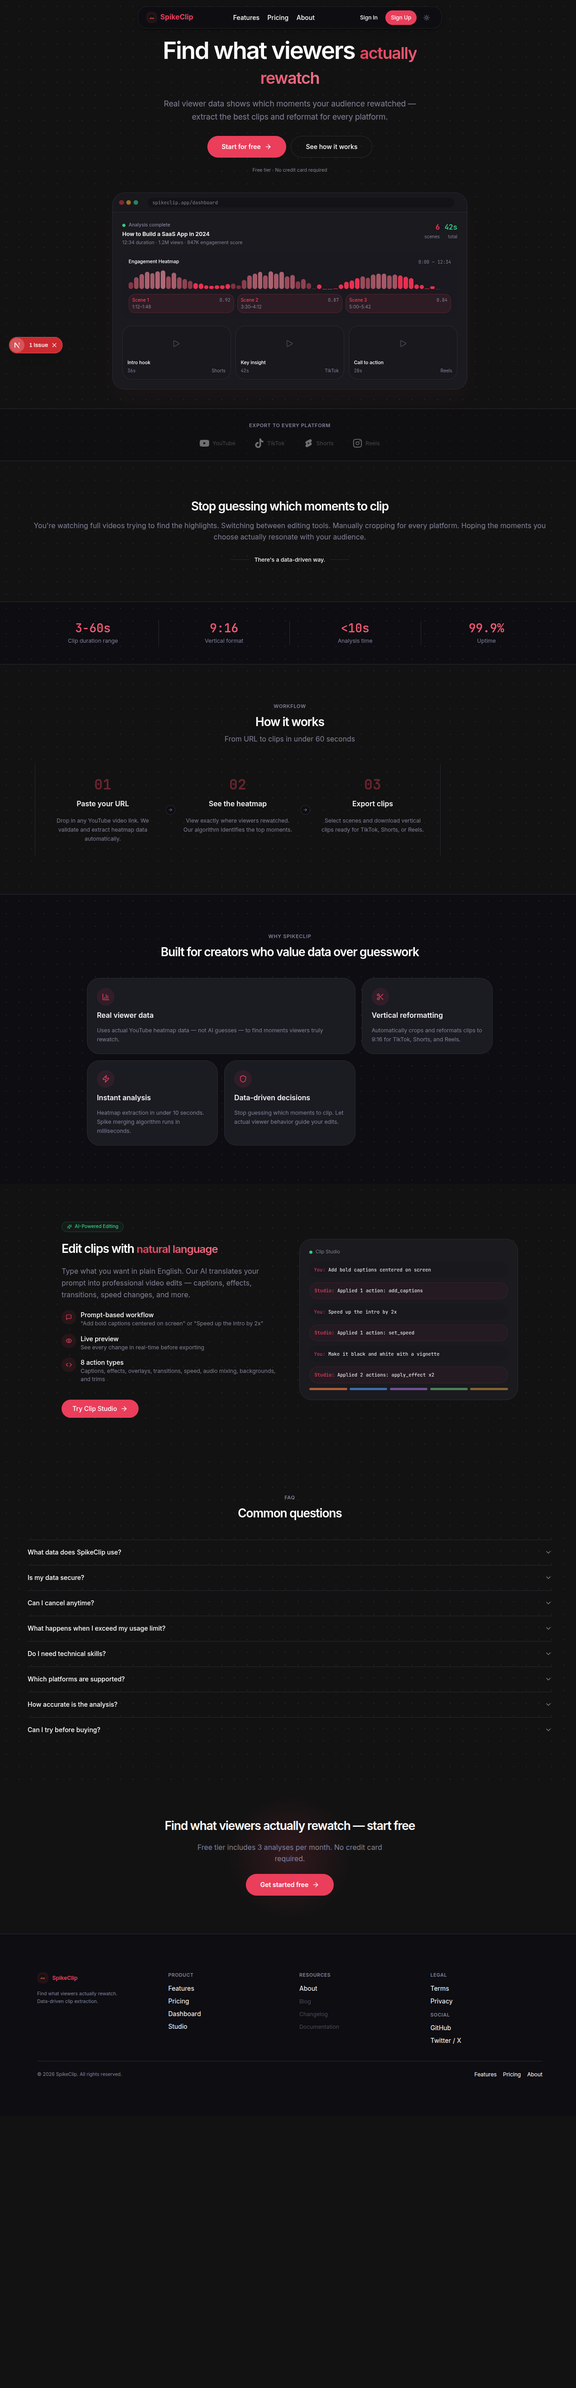
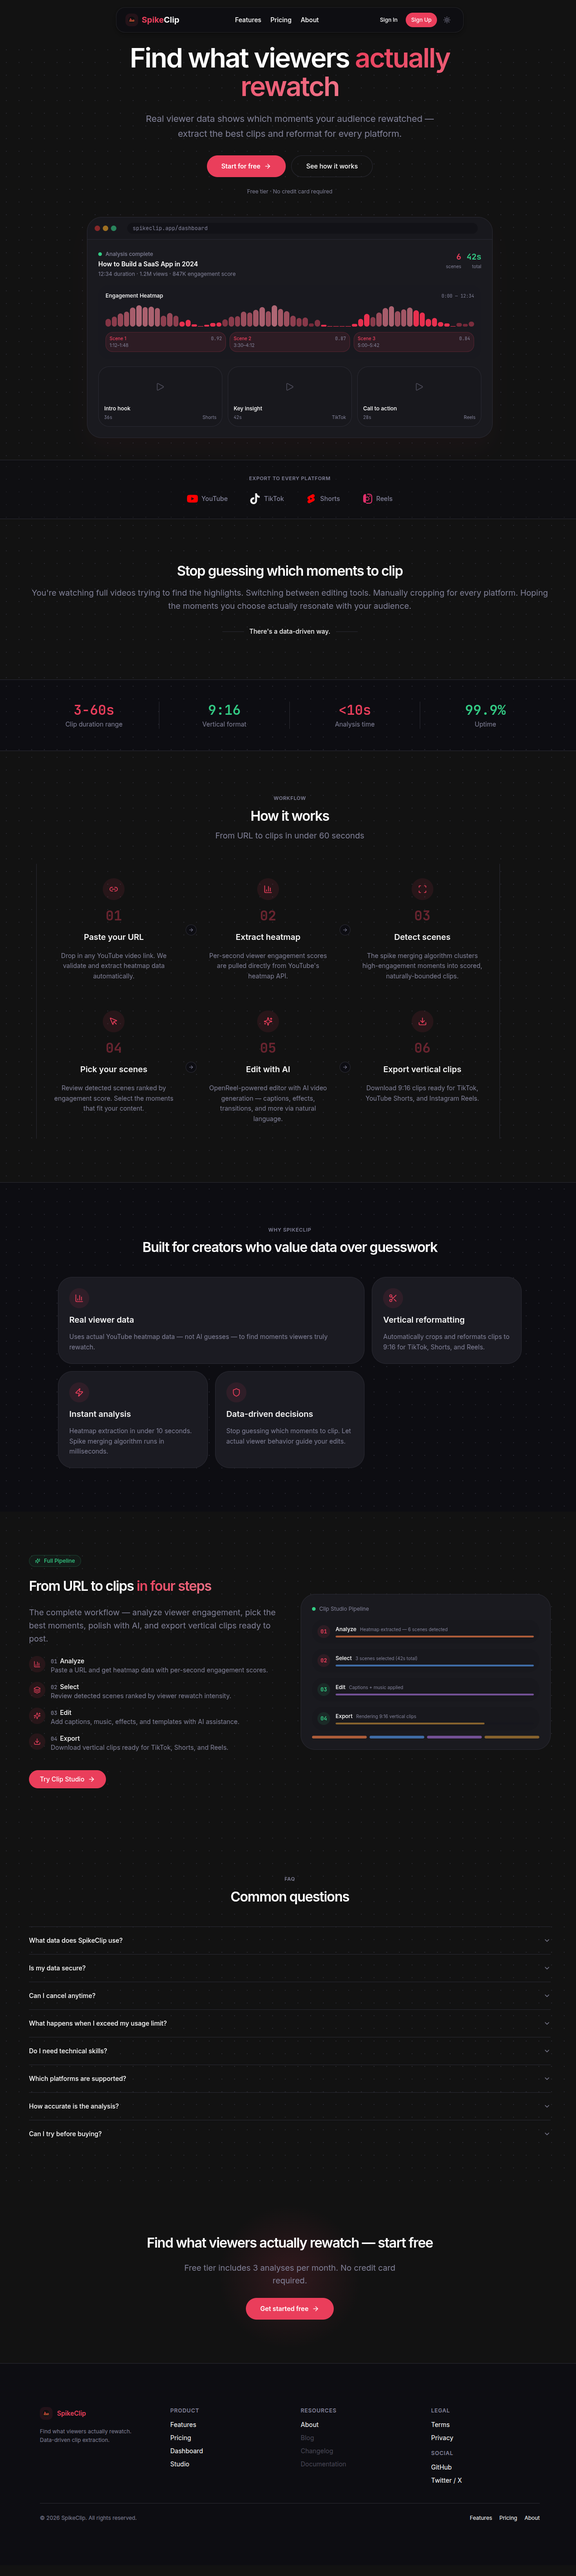
docs: update README with improved header animation, fresh screenshots, and expanded pipeline docs

diff --git a/README.md b/README.md
@@ -116,17 +116,35 @@ This keeps SpikeClip's data-driven heatmap selection while giving it a professio
 
 ## How it works
 
+### Analysis Pipeline (6 stages)
+
+| Stage | What happens |
+|-------|-------------|
+| **01 — Submit** | Paste a YouTube URL. Metadata + heatmap are extracted via `yt-dlp`. |
+| **02 — Analyze** | Per-second engagement scores are computed from the heatmap data. |
+| **03 — Detect** | The canonical spike-merging algorithm clusters high-engagement moments into scenes (3–60s). |
+| **04 — Score** | Scenes are ranked by viewer rewatch intensity — highest replay = best clip. |
+| **05 — Visualize** | Interactive heatmap renders with detected scenes highlighted and clickable timestamps. |
+| **06 — Decide** | User reviews ranked scenes and picks moments for Clip Studio. |
+
+### Clip Studio Pipeline (4 stages)
+
+| Stage | What happens |
+|-------|-------------|
+| **01 — Analyze** | Paste a URL and get heatmap data with per-second engagement scores. |
+| **02 — Select** | Review detected scenes ranked by viewer rewatch intensity. |
+| **03 — Edit** | Add captions (SRT / drawtext), layer background music with fades, apply curated templates. |
+| **04 — Export** | Download vertical clips (9:16, 1080×1920) ready for TikTok, YouTube Shorts, and Instagram Reels. |
+
 ```
-User submits URL
-  → POST /api/jobs  (URL validated, metadata + heatmap extracted via yt-dlp)
-  → HeatmapWorker runs the canonical merge algorithm → scenes saved to job
-  → Frontend polls GET /api/jobs/:id and renders the heatmap
+POST /api/jobs  →  yt-dlp extracts metadata + heatmap
+  →  HeatmapWorker runs the canonical merge algorithm → scenes saved
+  →  Frontend polls GET /api/jobs/:id and renders the interactive heatmap
         ↓
-User opens Clip Studio, picks a scene, adds captions/music/template
-  → POST /api/jobs/:id/export  (Clip rows created + export jobs enqueued)
-  → ClipWorker: download section → crop to 9:16 → overlay captions →
-    apply template effects → mix music → upload to storage
-  → Clips served via HMAC-signed API URLs (never a public bucket)
+POST /api/jobs/:id/export  →  Clip rows created + export jobs enqueued
+  →  ClipWorker: download section → crop to 9:16 → overlay captions →
+     apply template effects → mix music → upload to MinIO
+  →  Clips served via HMAC-signed API URLs (never a public bucket)
 ```
 
 ---
